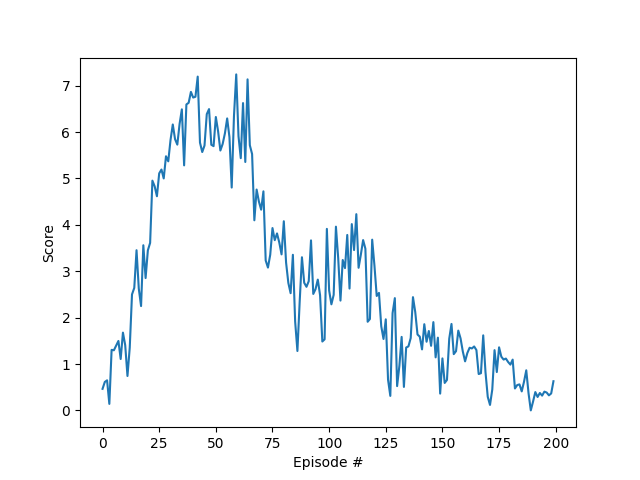
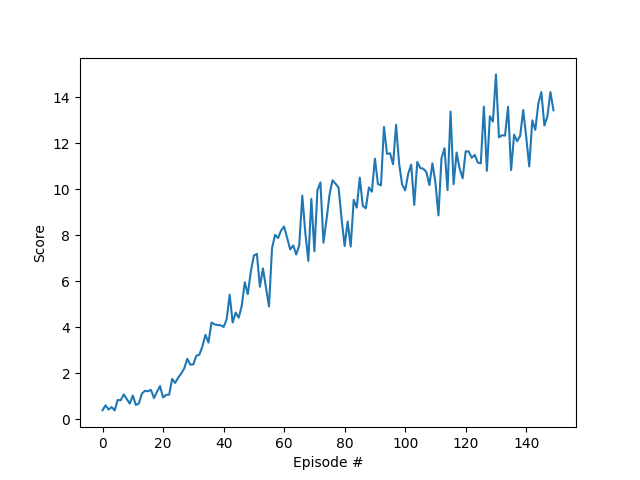
Reach score 13 in 150 episode steadily
Increase NN complexity, reduce learning rate, increase noise

diff --git a/ddpg_agent.py b/ddpg_agent.py
@@ -8,12 +8,12 @@ from model import ActorNet, CriticNet, FCBody
 from ou_noise import OUNoise
 from replay_buffer import ReplayBuffer
 
-BUFFER_SIZE = int(1e6)  # replay buffer size
+BUFFER_SIZE = int(1e5)  # replay buffer size
 BATCH_SIZE = 64  # minibatch size
 GAMMA = 0.99  # discount factor
 TAU = 1e-3  # for soft update of target parameters
-LR_ACTOR = 1.e-4  # learning rate of the actor
-LR_CRITIC = 1.e-3  # learning rate of the critic
+LR_ACTOR = 1.e-5  # learning rate of the actor
+LR_CRITIC = 1.e-4  # learning rate of the critic
 WEIGHT_DECAY = 0  # L2 weight decay
 
 
@@ -25,27 +25,30 @@ def print_nn_parameters(model):
 
 
 class DDPG_Agent(object):
-    def __init__(self, state_dim, action_dim, seed=101):
+    def __init__(self, state_dim, action_dim, seed=101, update_interval=1, n_updates=1):
         print("Using device: ", device)
         # self._actor_local = ActorNet(state_dim, action_dim, seed).to(device)
         # self._actor_target = ActorNet(state_dim, action_dim, seed).to(device)
         self.seed = seed
         np.random.seed(seed)
-        self._actor_local = ActorNet(action_dim, FCBody(state_dim, (400, 300), seed), seed)
-        self._actor_target = ActorNet(action_dim, FCBody(state_dim, (400, 300), seed), seed)
+        self._actor_local = ActorNet(action_dim, FCBody(state_dim, (128, 256, 128), seed), seed)
+        self._actor_target = ActorNet(action_dim, FCBody(state_dim, (128, 256, 128), seed), seed)
         self._actor_optimizer = optim.Adam(self._actor_local.parameters(), lr=LR_ACTOR)
 
         # self._critic_local = CriticNet(state_dim, action_dim, seed).to(device)
         # self._critic_target = CriticNet(state_dim, action_dim, seed).to(device)
-        self._critic_local = CriticNet(FCBody(state_dim, (400,), seed), FCBody(400 + action_dim, (300,), seed), seed)
-        self._critic_target = CriticNet(FCBody(state_dim, (400,), seed), FCBody(400 + action_dim, (300,), seed), seed)
+        self._critic_local = CriticNet(FCBody(state_dim+action_dim, (256,512), seed), FCBody(512, (256,), seed), seed)
+        self._critic_target = CriticNet(FCBody(state_dim+action_dim, (256,512), seed), FCBody(512, (256,), seed), seed)
         self._critic_optimizer = optim.Adam(self._critic_local.parameters(), lr=LR_CRITIC, weight_decay=WEIGHT_DECAY)
         self._replay_buffer = ReplayBuffer(BUFFER_SIZE, BATCH_SIZE, seed)
         self._ou_noise = OUNoise(action_dim, seed)
-        self._noise_decay = 0.98
+        self._noise_decay = 0.99
 
         self.soft_update(self._actor_local, self._actor_target, 1)
         self.soft_update(self._critic_local, self._critic_target, 1)
+        self._t = 0
+        self._update_interval = update_interval
+        self._n_updates = n_updates
 
         # summary(self._actor_local, (state_dim,))
 
@@ -59,6 +62,8 @@ class DDPG_Agent(object):
         self._replay_buffer.add(states, actions, rewards, next_states, dones)
         # Learn, if enough samples are available in memory
         if len(self._replay_buffer) > BATCH_SIZE:
+            # if self._t % self._update_interval == 0:
+            #     for _ in range(self._n_updates):
             experiences = self._replay_buffer.sample()
             self.learn(experiences)
             # print_nn_parameters(self._critic_local)
@@ -75,6 +80,7 @@ class DDPG_Agent(object):
         self.learn(exps)
 
     def step(self, states, actions, rewards, next_states, dones):
+        self._t += 1
         self.step_with_replay_buffer(states, actions, rewards, next_states, dones)
 
     def reset(self):
@@ -92,6 +98,7 @@ class DDPG_Agent(object):
         # print(critic_loss)
         self._critic_optimizer.zero_grad()
         critic_loss.backward()
+        # torch.nn.utils.clip_grad_norm_(self._critic_local.parameters(), 10)
         self._critic_optimizer.step()
 
         expected_action = self._actor_local(states)
@@ -103,6 +110,7 @@ class DDPG_Agent(object):
 
         self._actor_optimizer.zero_grad()
         actor_loss.backward()
+        # torch.nn.utils.clip_grad_norm_(self._actor_local.parameters(), 15)
         self._actor_optimizer.step()
 
         self.soft_update(self._actor_local, self._actor_target, TAU)
@@ -129,7 +137,7 @@ class DDPG_Agent(object):
         actions = actions.cpu().data.numpy()
         if noise:
             # noise = self._ou_noise.sample()
-            noise = np.random.normal(0, 0.01, np.shape(actions))
+            noise = np.random.normal(0, 0.05, np.shape(actions))
             noise_decay = self._noise_decay ** (5 * n_episode)
             noise *= noise_decay
             actions += noise

diff --git a/model.py b/model.py
@@ -52,6 +52,7 @@ class ActorNet(nn.Module):
 
     def forward(self, obs):
         phi = self.phi_body(obs)
+
         action = self.fc_action(phi)
         # to do add OU noise to action
         return torch.tanh(action)
@@ -75,8 +76,8 @@ class CriticNet(nn.Module):
         self.to(device)
 
     def forward(self, obs, action):
-        phi = self.phi_body(obs)
-        xs = torch.cat((phi, action), dim=1)
+        xs = torch.cat((obs, action), dim=1)
+        xs = self.phi_body(xs)
         xs = self.critic_body(xs)
         value = self.fc_critic(xs)
         return value

diff --git a/continuous_control.py b/continuous_control.py
@@ -74,7 +74,7 @@ class Environment(object):
     def close(self):
         self._env.close()
 
-    def train(self, min_score, n_episodes=200, max_t=1000):
+    def train(self, min_score, n_episodes=150, max_t=1000):
         """Deep Q-Learning.
             Params
             ======
